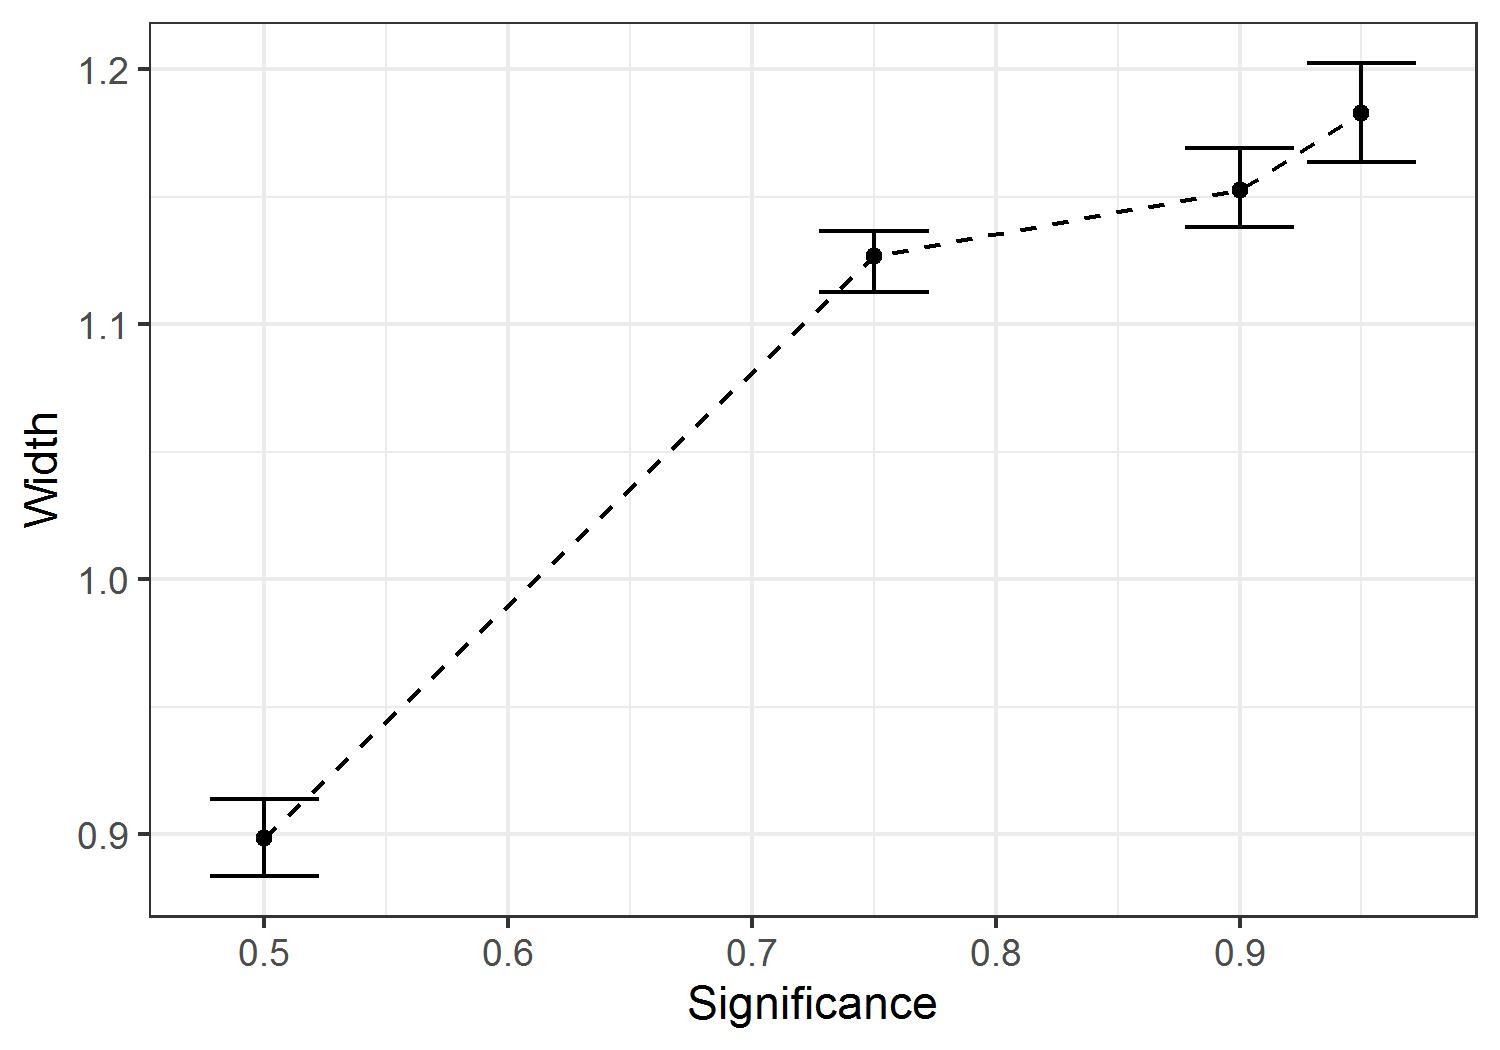
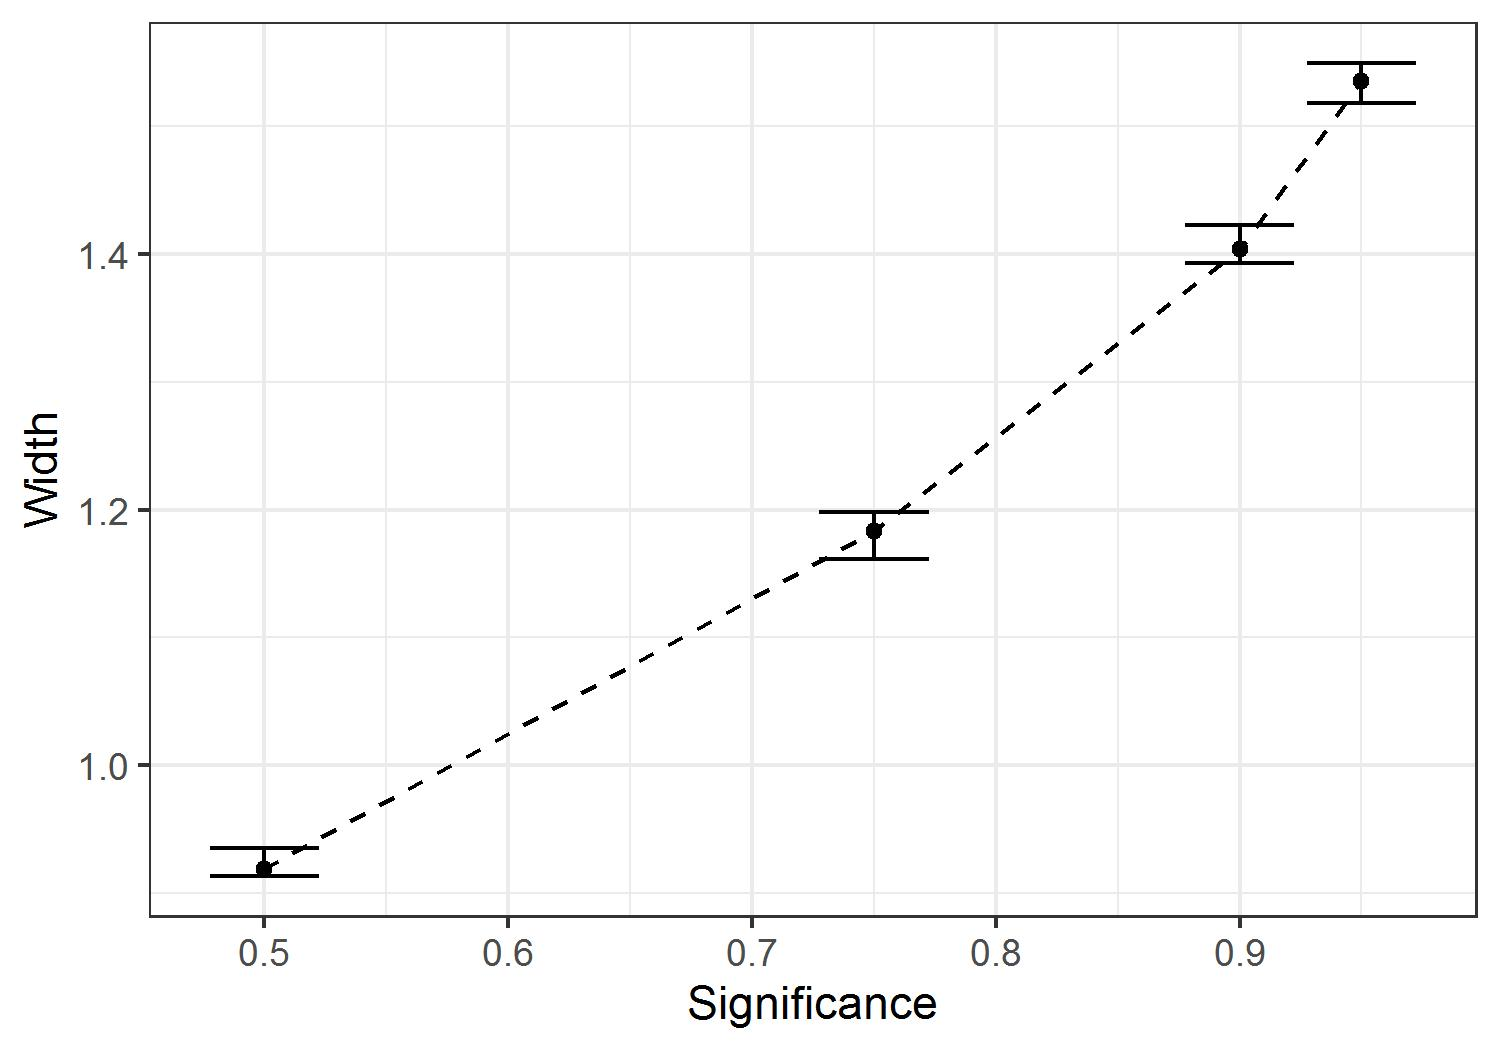
example

diff --git a/Deliverables/Figures/example.tex b/Deliverables/Figures/example.tex
@@ -1,16 +1,24 @@
 % latex table generated in R 3.5.2 by xtable 1.8-3 package
-% Wed Feb 12 13:53:59 2020
+% Fri Feb 14 11:37:45 2020
 \begin{table}[ht]
 \centering
 \begin{tabular}{rlr}
   \toprule
  & Variables & Importance \\ 
   \midrule
-1 & WEIGHT01 & 21.36 \\ 
-  2 & AGEGROUP & 8.49 \\ 
-  3 & AGELT21 & 6.98 \\ 
-  4 & AGE2123 & 6.65 \\ 
-  5 & AGEGT23 & 6.49 \\ 
+1 & A3 & 20.12 \\ 
+  2 & A1 & 19.19 \\ 
+  3 & B2 & 13.16 \\ 
+  4 & B3 & 12.01 \\ 
+  5 & G1 & 11.83 \\ 
+  6 & A6 & 10.58 \\ 
+  7 & A4 & 10.28 \\ 
+  8 & B22 & 6.90 \\ 
+  9 & A2 & 5.57 \\ 
+  10 & G12A & 3.82 \\ 
+  11 & G13 & 0.82 \\ 
+  12 & G3A & 0.00 \\ 
+  13 & G2 & -2.13 \\ 
    \bottomrule
 \end{tabular}
 \caption{Example} 

diff --git a/Deliverables/Figures/conformal.tex b/Deliverables/Figures/conformal.tex
@@ -1,16 +1,16 @@
 % latex table generated in R 3.5.2 by xtable 1.8-3 package
-% Wed Feb 12 13:54:48 2020
+% Fri Feb 14 11:50:22 2020
 \begin{table}[ht]
 \centering
 \begin{tabular}{rrrr}
   \toprule
  & signif & width & hit \\ 
   \midrule
-1 & 0.50 & 0.90 & 0.50 \\ 
-  2 & 0.75 & 1.13 & 0.75 \\ 
-  3 & 0.90 & 1.15 & 0.90 \\ 
-  4 & 0.95 & 1.18 & 0.95 \\ 
+1 & 0.50 & 0.92 & 0.49 \\ 
+  2 & 0.75 & 1.18 & 0.74 \\ 
+  3 & 0.90 & 1.41 & 0.90 \\ 
+  4 & 0.95 & 1.53 & 0.95 \\ 
    \bottomrule
 \end{tabular}
-\caption{Width and signif} 
+\caption{Width of Prediction Intervals} 
 \end{table}
